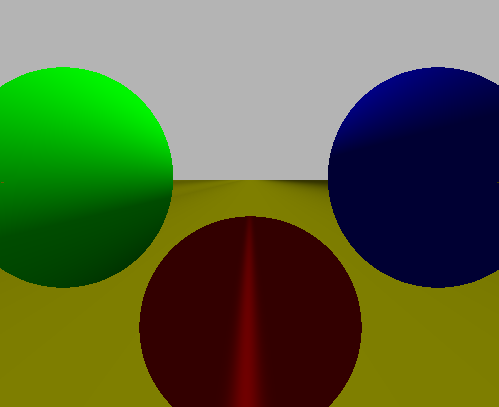
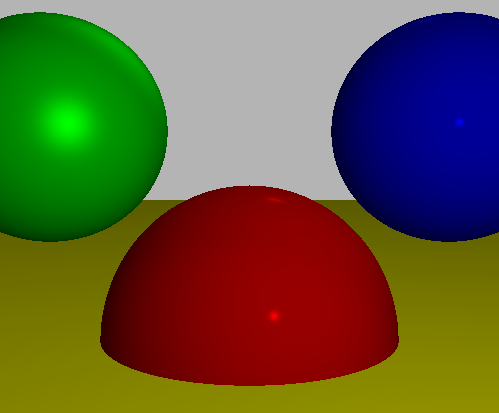
Fixed Object Distortion

diff --git a/Raytracer/Main.cpp b/Raytracer/Main.cpp
@@ -8,11 +8,11 @@
 
 #define MAX_NUM INFINITY
 
-const int16_t CW       = 500;
-const int16_t CH       = 500;
-const int16_t VW       = 200;
-const int16_t VH       = -200;
-const int16_t distance = 1;
+const double CW       = 500;
+const double CH       = 500;
+const double VW       = 1;
+const double VH       = 1;
+const double distance = 1;
 
 typedef struct quadratic
 {
@@ -40,11 +40,11 @@ const quadratic intersect_ray_sphere(const Vector3D<double>& O,
     if (discriminant < 0)
         return quadratic{ MAX_NUM, MAX_NUM };
 
-    const double numerator   = sqrt(discriminant);
+    const double numerator   = std::sqrt(discriminant);
     const double denominator = 2 * a;
     const double t1          = (-b + numerator) / denominator;
     const double t2          = (-b - numerator) / denominator;
-    
+
     return quadratic{ t1, t2 };
 }
 
@@ -97,24 +97,23 @@ const Vector3D<double> trace_ray(const Vector3D<double>& O,
     for (Sphere* const sphere : *spheres)
     {
         quadratic quads = intersect_ray_sphere(O, D, *sphere);
-        if (((quads.t1 >= t_min && quads.t1 <= t_max) && quads.t1 < closest_t) &&
-            !((quads.t2 >= t_min && quads.t2 <= t_max) && quads.t2 < closest_t))
+        if ((quads.t1 >= t_min) && quads.t1 < closest_t)
         {
             closest_t = quads.t1;
             closest_sphere = sphere;
         }
-        /*if ((quads.t2 >= t_min && quads.t2 <= t_max) && quads.t2 < closest_t)
+        if ((quads.t2 >= t_min) && quads.t2 < closest_t)
         {
             closest_t = quads.t2;
             closest_sphere = sphere;
-        }*/
+        }
     }
 
     if (closest_sphere == nullptr)
         return Vector3D<double>(180, 180, 180);
 
     Vector3D<double> P = O + (closest_t * D);
-    Vector3D<double> N = P - (*closest_sphere).get_center();
+    Vector3D<double> N = P - (*closest_sphere).get_cords();
     N = N / N.length();
     return (*closest_sphere).get_rgb() * compute_lighting(P, N, -D, (*closest_sphere).get_specular(), lights);
 }
@@ -123,48 +122,49 @@ int main(int argc, const char* argv[])
 {
     // Scene
     // Spheres
-    Sphere* const sphere1 = new Sphere(45);
-    sphere1->set_cords(0, -60, 8);
+    Sphere* const sphere1 = new Sphere(2);
+    sphere1->set_cords(0, -2, 7);
     sphere1->set_rgb(255, 0, 0);
     sphere1->set_specular(500);
 
-    Sphere* const sphere2 = new Sphere(45);
-    sphere2->set_cords(-75, 0, 10);
+    Sphere* const sphere2 = new Sphere(2);
+    sphere2->set_cords(-3.5, 1, 9);
     sphere2->set_rgb(0, 255, 0);
     sphere2->set_specular(10);
 
-    Sphere* const sphere3 = new Sphere(45);
-    sphere3->set_cords(75, 0, 10);
+    Sphere* const sphere3 = new Sphere(2);
+    sphere3->set_cords(3.5, 1, 9);
     sphere3->set_rgb(0, 0, 255);
     sphere3->set_specular(500);
 
     Sphere* const sphere4 = new Sphere(5000);
-    sphere4->set_cords(0, -5001, 0);
+    sphere4->set_cords(0, -5002, 0);
     sphere4->set_rgb(255, 255, 0);
     sphere4->set_specular(1000);
-
+    
     std::vector<Sphere*>* const spheres = new std::vector<Sphere*>();
     spheres->push_back(sphere1);
     spheres->push_back(sphere2);
     spheres->push_back(sphere3);
     spheres->push_back(sphere4);
-
+    
     // Lights
     Light* const light1 = new Light("ambient");
     light1->set_intensity(0.2);
-
+    
     Light* const light2 = new Light("point");
-    light2->set_intensity(0.3);
-    light2->set_position(new Vector3D<double>(0, -50, 0));
-
+    light2->set_intensity(0.4);
+    light2->set_position(new Vector3D<double>(2, 1, 0));
+    
     Light* const light3 = new Light("directional");
-    light3->set_intensity(0.9);
-    light3->set_direction(new Vector3D<double>(-10, 40, 10));
-
+    light3->set_intensity(0.2);
+    light3->set_direction(new Vector3D<double>(1, 4, 4));
+    
     std::vector<Light*>* const lights = new std::vector<Light*>();
     lights->push_back(light1);
     lights->push_back(light2);
     lights->push_back(light3);
+
 
     const int16_t cw = CW / 2;
     const int16_t ch = CH / 2;
@@ -179,7 +179,7 @@ int main(int argc, const char* argv[])
         {
             const Vector3D<double> D = canvas_to_viewport(x, y);
             const Vector3D<double> color = trace_ray(O, D, distance, MAX_NUM, spheres, lights);
-            SetPixel(hdc, x + ch, y + cw, RGB(color[0], color[1], color[2]));
+            SetPixel(hdc, x + ch, -y + cw, RGB(color[0], color[1], color[2]));
         }
     }
 }

diff --git a/Raytracer/src/Objects/Object3D.cpp b/Raytracer/src/Objects/Object3D.cpp
@@ -13,7 +13,7 @@ void Object3D::set_cords(const double& x, const double& y, const double& z)
 
 void Object3D::set_rgb(const float& r, const float& g, const float& b)
 {
-    this->rgb = new Vector3D<float>(r, g, b);
+    this->rgb = new Vector3D<double>(r, g, b);
 }
 
 const Vector3D<double>& Object3D::get_cords() const
@@ -21,7 +21,7 @@ const Vector3D<double>& Object3D::get_cords() const
     return *this->cords;
 }
 
-const Vector3D<float>& Object3D::get_rgb() const
+const Vector3D<double>& Object3D::get_rgb() const
 {
     return *this->rgb;
 }

diff --git a/Raytracer/include/Raytracer/Objects/Sphere.hpp b/Raytracer/include/Raytracer/Objects/Sphere.hpp
@@ -7,16 +7,14 @@ class Sphere : public Object3D
 private:
     const double radius           = 1;
     double specular               = 1;
-    const Vector3D<double> center = { 1, 1, 1 };
 
 public:
     Sphere() { }
     Sphere(const double& radius) : radius(radius) { }
     ~Sphere();
 
-    void set_specular(const double specular);
+    void set_specular(const double& specular);
 
     const double& get_specular() const;
     const double& get_radius() const;
-    const Vector3D<double>& get_center() const;
 };

diff --git a/Raytracer/include/Raytracer/Objects/Object3D.hpp b/Raytracer/include/Raytracer/Objects/Object3D.hpp
@@ -6,7 +6,7 @@ class Object3D
 {
 private:
     Vector3D<double>* cords = nullptr;
-    Vector3D<float>*  rgb   = nullptr;
+    Vector3D<double>* rgb   = nullptr;
 
 public:
     Object3D() { }
@@ -16,5 +16,5 @@ public:
     void set_rgb(const float& r, const float& g, const float& b);
 
     const Vector3D<double>& get_cords() const;
-    const Vector3D<float>& get_rgb() const;
+    const Vector3D<double>& get_rgb() const;
 };

diff --git a/Raytracer/src/Objects/Sphere.cpp b/Raytracer/src/Objects/Sphere.cpp
@@ -5,7 +5,7 @@ Sphere::~Sphere()
     this->Object3D::~Object3D();
 }
 
-void Sphere::set_specular(const double specular)
+void Sphere::set_specular(const double& specular)
 {
     this->specular = specular;
 }
@@ -17,9 +17,4 @@ const double& Sphere::get_specular() const
 const double& Sphere::get_radius() const
 {
     return this->radius;
-}
-
-const Vector3D<double>& Sphere::get_center() const
-{
-    return this->center;
 }

diff --git a/Raytracer/include/Raytracer/Vector3D.hpp b/Raytracer/include/Raytracer/Vector3D.hpp
@@ -63,6 +63,15 @@ public:
 
     template <typename V>
     constexpr
+    auto operator*(const Vector3D<V>& vec) const
+    {
+        return (this->x1 * vec[0]) +
+               (this->x2 * vec[1]) +
+               (this->x3 * vec[2]);
+    }
+
+    template <typename V>
+    constexpr
     auto operator/(const V& i) const
     {
         return Vector3D<decltype(this->x1 * i)>

diff --git a/README.md b/README.md
@@ -5,7 +5,7 @@ This is a simple raytracer to display Spheres
 Build with Raytracer.sln solution from Visual Studio 2019
 
 # Bugs
-T2 is not being rendered and/or calculated correctly
+Lighting issues
 
 # Current State
 ![](State.png)
